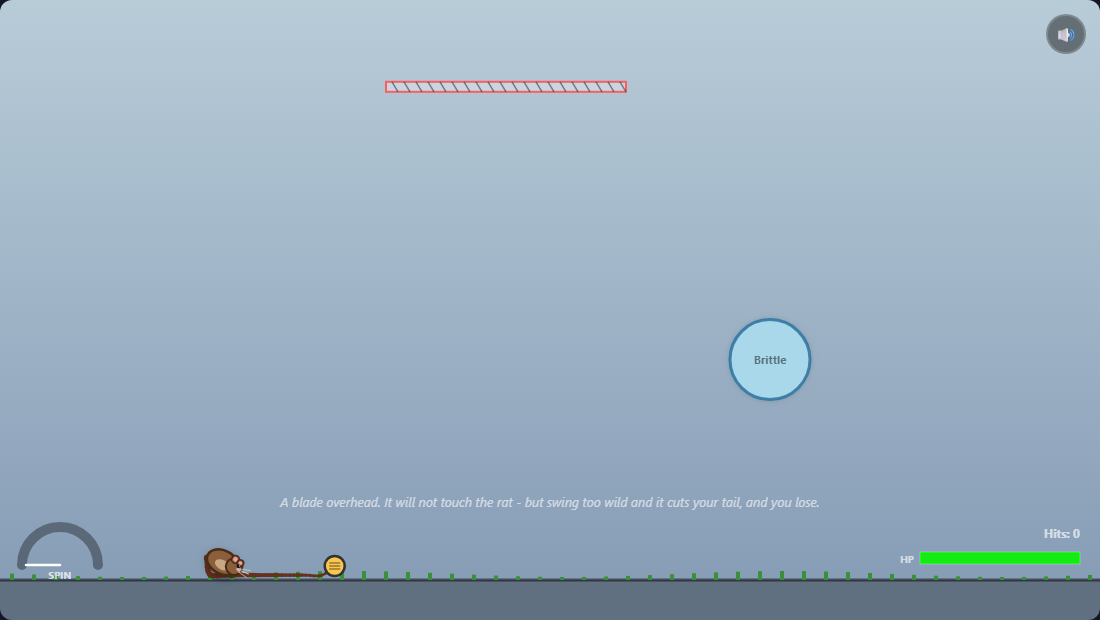
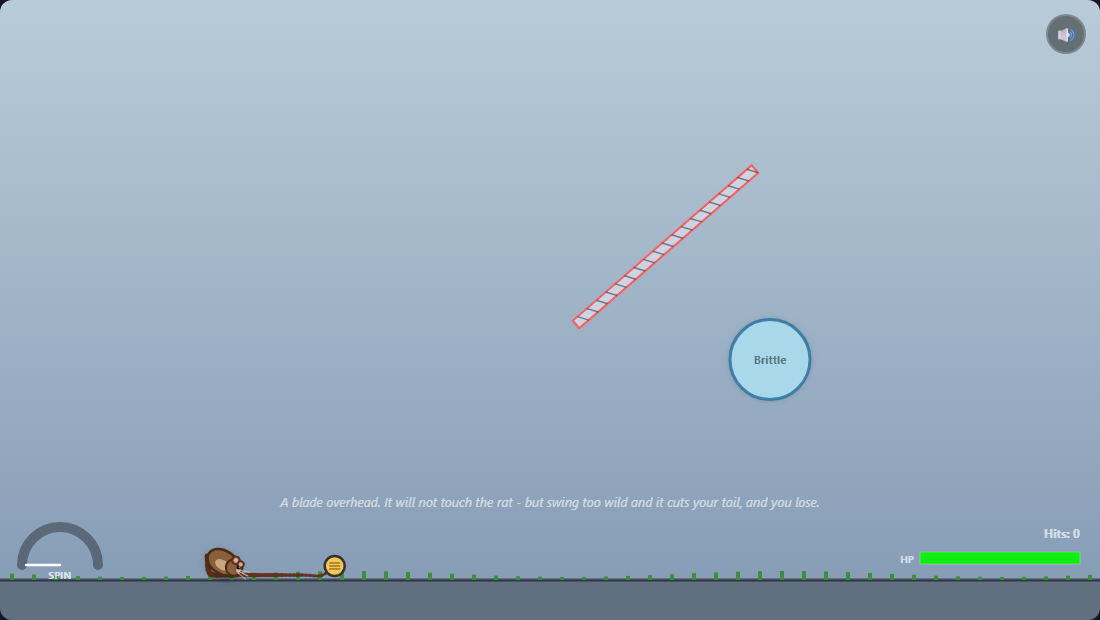
feat(levels): move L11's blade to a diagonal across the approach
Placed from the player sketch (temp/level 11 feedback.png): (576,325) to (754,168) in canvas px - centre (0.605, 0.398), length 237, -41 deg. Overhead, the blade only taxed the biggest swing and was easy to forget; across the approach it is a thing to steer around, which is the lesson the level exists to teach. The hint said 'overhead' and now describes the diagonal.

cutSpeed 230 -> 280. At 230 the playtest cut 2 of 7 runs (29%) against the <= 20% criterion, but the number is deliberately not carried over from the old placement: a blade in the swing path is crossed far more often, so both crossing rate and speeds change, and bot runs cannot settle it (0/8 at a threshold where humans cut 45%). Start easy, measure on human play.

Screenshot matches the sketch; bot clears 8/8; gate 121/121; 129 unit tests.

Claude-Session: https://claude.ai/code/session_01NchcA5yUPocbACojdXFgVS

diff --git a/js/levels.js b/js/levels.js
@@ -297,15 +297,22 @@ export const LEVELS = [
     hint: 'Bumpers knock you off course. If your tail snags on one, CLICK to yank it free.',
   },
   {
-    // TEACHES blades and the fail state. One blade high overhead with plenty of
-    // room beneath: it never blocks the ordinary line, it only taxes the
-    // biggest, least controlled swing. No bumper - the old First Cut paired the
-    // two, which is why it both taught blades and cut 45% of runs.
+    // TEACHES blades and the fail state. No bumper - the old First Cut paired
+    // the two, which is why it both taught blades and cut 45% of runs.
     //
-    // cutSpeed 230, deliberately forgiving (rule 7). At 175 the 2026-09-19
-    // playtest cut 2 of 6 runs, at tail speeds of 203 and 244; 230 would have
-    // spared one of those two. Two data points - tune from the Phase 1
-    // playtest. Working if: at most ~20% of runs are cut.
+    // The blade is a DIAGONAL across the approach, not a ceiling: from (576,325)
+    // to (754,168) in canvas px, so centre (0.605, 0.398), length 237, -41 deg.
+    // Placed from a player sketch on 2026-09-20 (temp/level 11 feedback.png).
+    // Overhead, it only taxed the biggest swing and was easy to forget; across
+    // the approach it is a thing you steer around, which is the lesson.
+    //
+    // cutSpeed 280, raised from 230 and deliberately forgiving (rule 7). At 230
+    // the 2026-09-20 playtest cut 2 of 7 runs (29%, tail speeds 233 and 272)
+    // against the <= 20% criterion. The number is NOT carried over from the
+    // overhead placement though: a blade in the swing path is crossed far more
+    // often, so both the crossing rate and the speeds change. Bot runs cannot
+    // settle it either - at a shared 120 the bot gave 0/8 where humans gave 45%.
+    // Start easy, measure on human play. Working if: at most ~20% of runs cut.
     id: 11,
     kind: 'teaching', teaches: 'blade',
     act: 3,
@@ -319,11 +326,11 @@ export const LEVELS = [
       { shape: 'circle', r: 40, x: 0.70, y: 0.58, material: 'glass' },
     ],
     blades: [
-      { x: 0.46, y: 0.14, w: 240, h: 10, cutSpeed: 230 },
+      { x: 0.605, y: 0.398, w: 237, h: 10, angle: -41, cutSpeed: 280 },
     ],
     parScore: 1800,
     pushParScore: 3000,
-    hint: 'A blade overhead. It will not touch the rat - but swing too wild and it cuts your tail, and you lose.',
+    hint: 'A blade across your path. It will not touch the rat - but whip your tail through it and you lose.',
   },
   {
     // MIXED finale: everything taught outside the zone - a shield, bumpers, a
